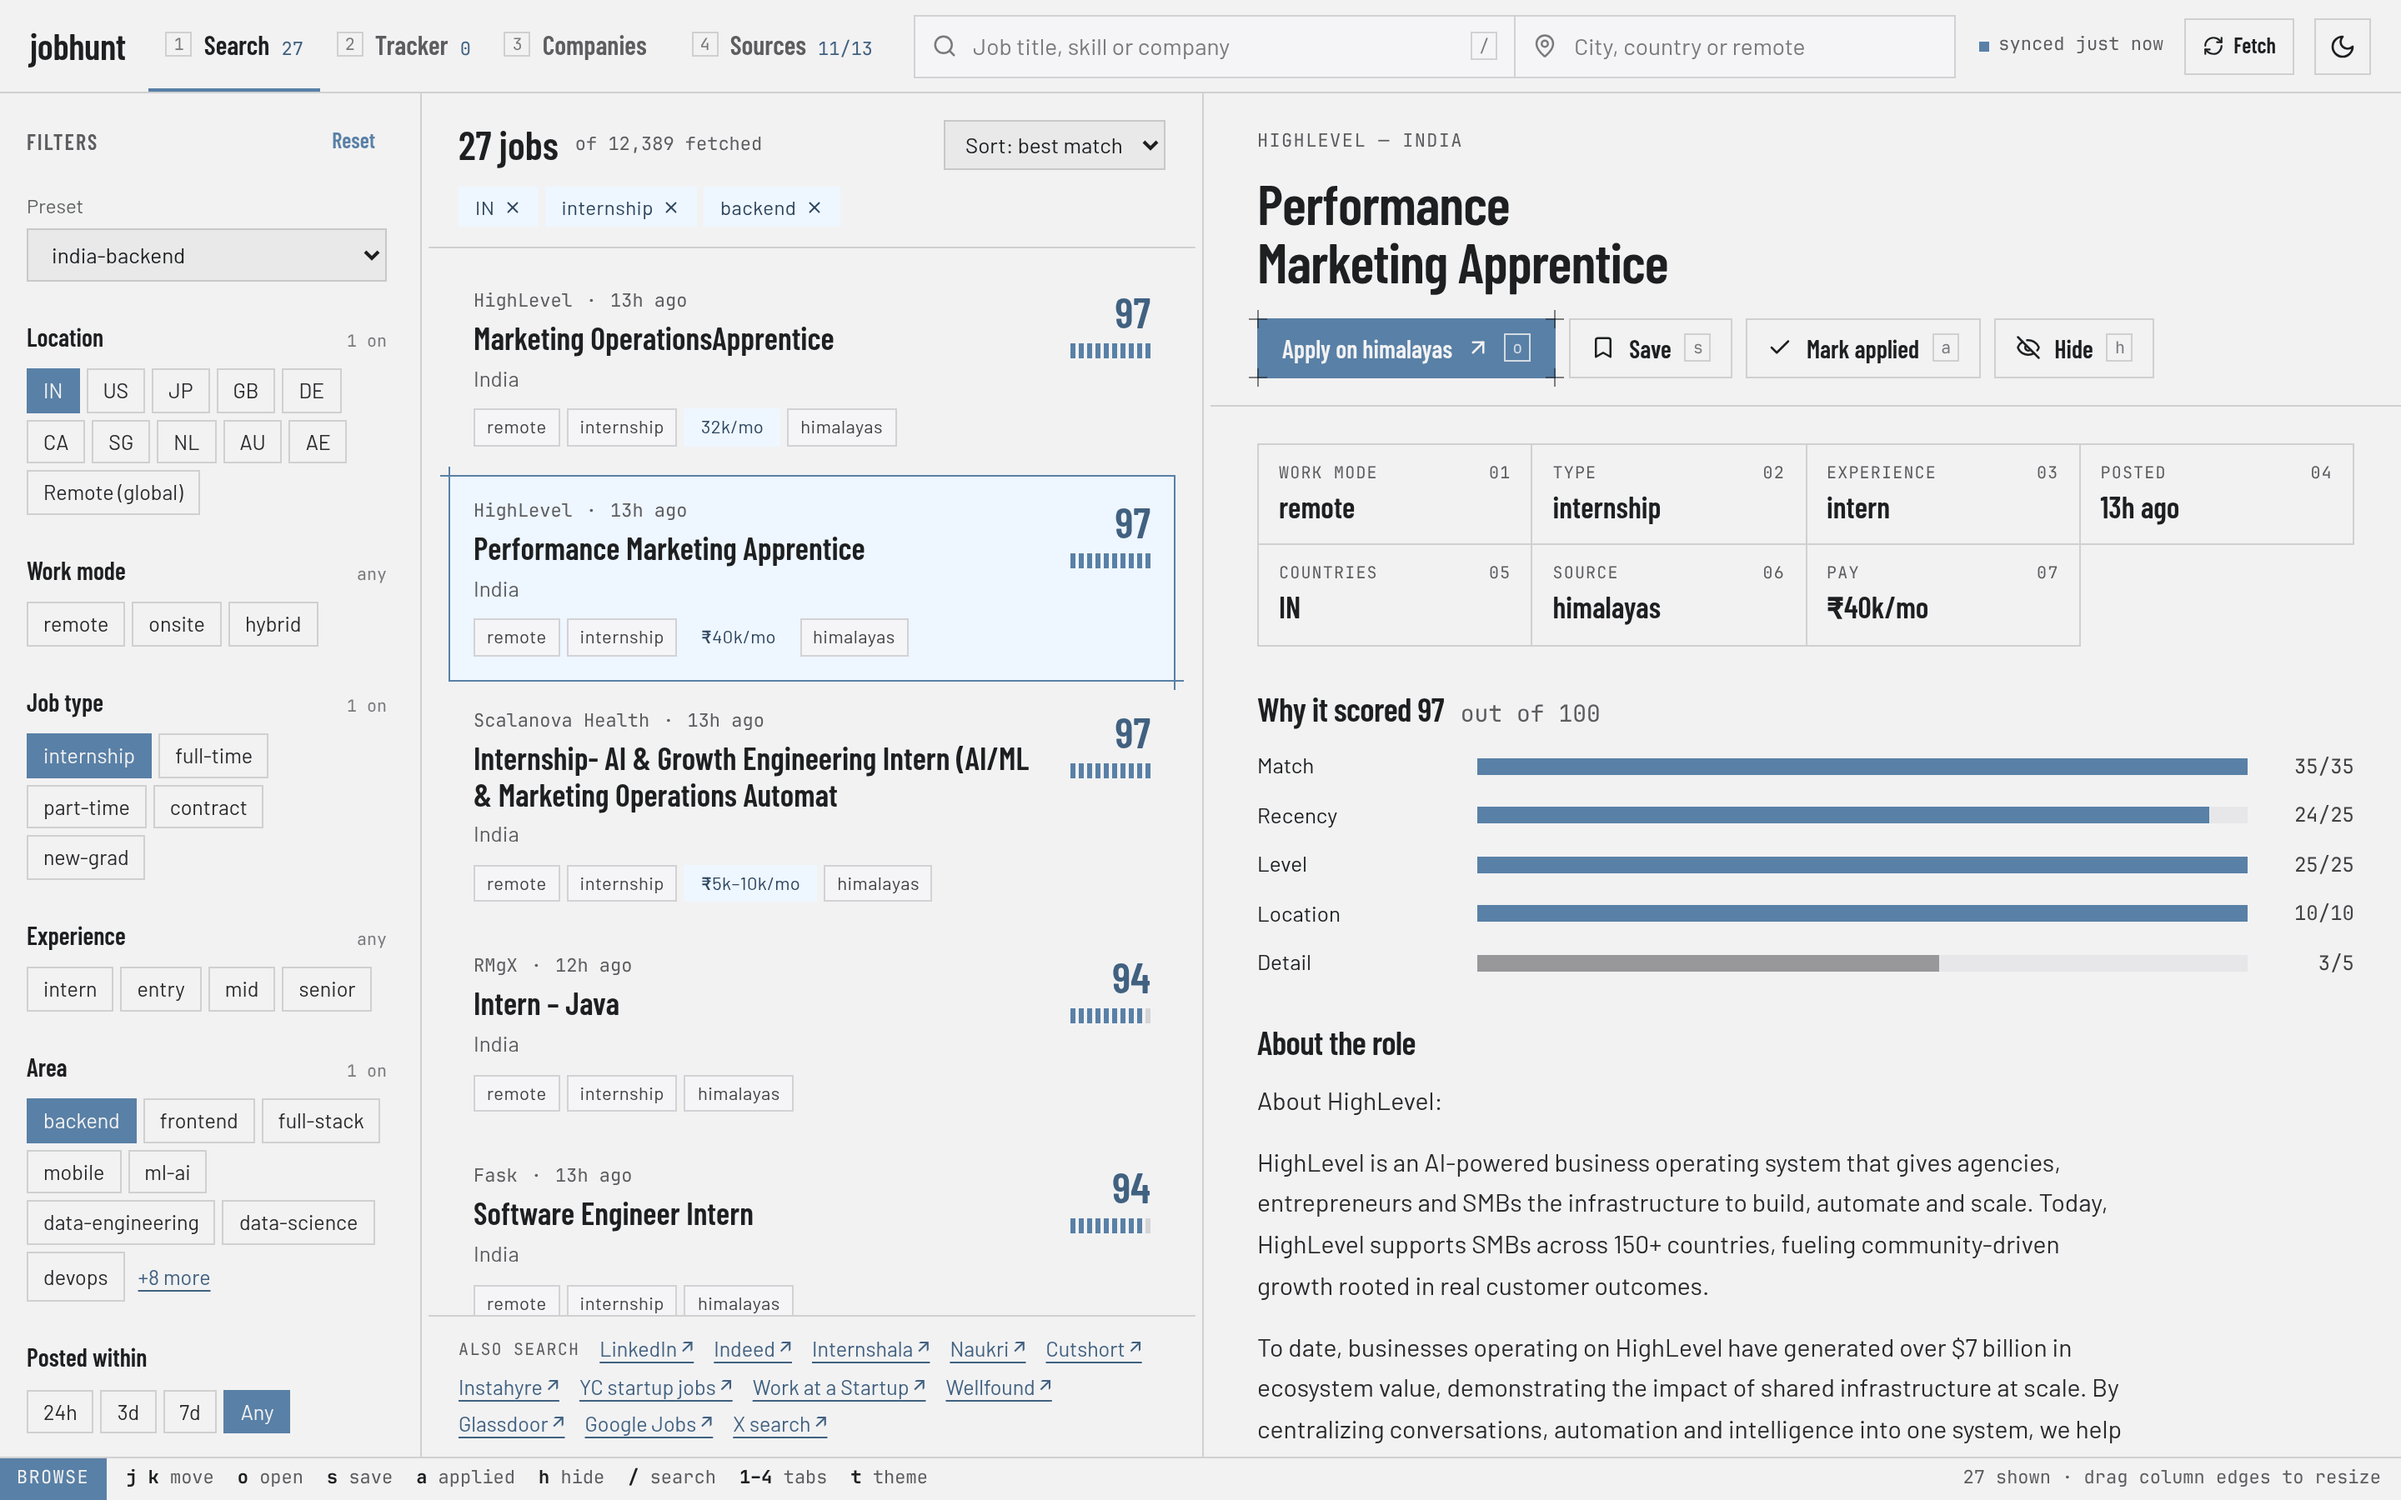
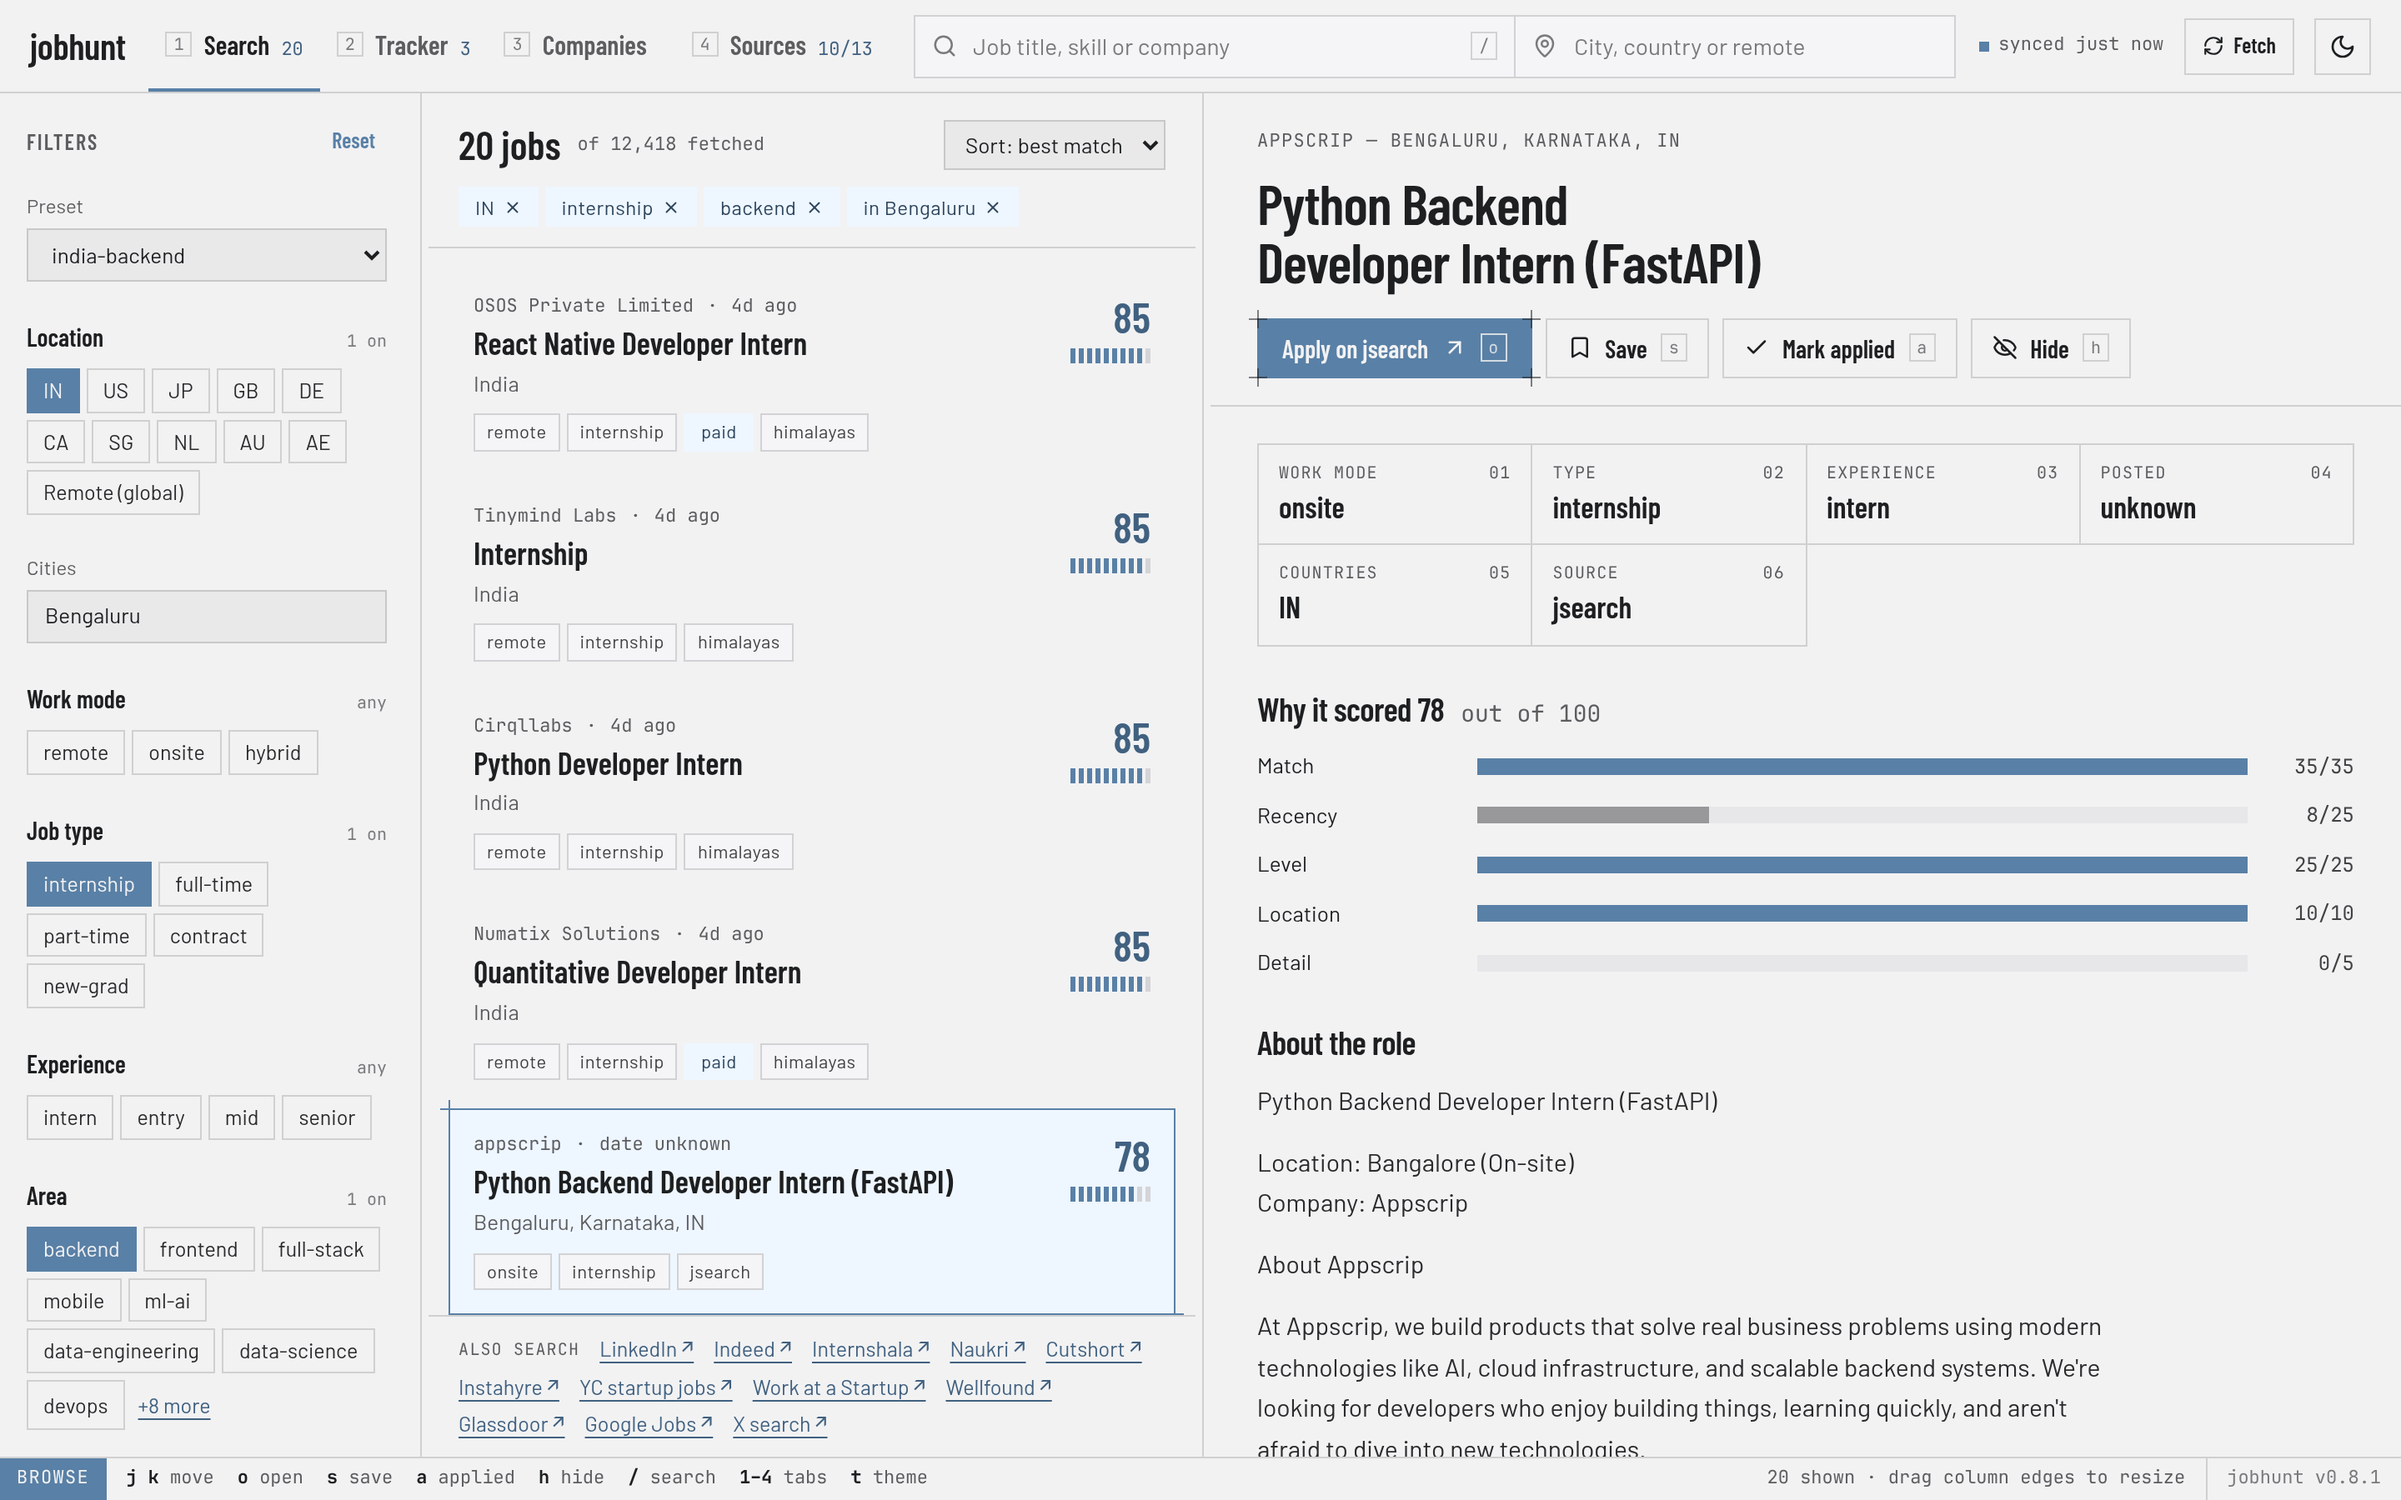
docs: city filter in README; refresh TUI and web screenshots
Show the Cities filter in the web search shot, the CITY section in the
TUI shot and the Add job button in the tracker shot.

diff --git a/README.md b/README.md
@@ -15,6 +15,7 @@ Use it from the terminal, a TUI, or a local web UI. It also keeps a list of star
 - **One search, every source.** Queries about 90 company job boards, remote boards, HN "Who is Hiring" and optional APIs concurrently.
 - **Less noise.** Classifies each job's type, level, work mode, CS area and visa support, then filters out what you didn't ask for.
 - **Pay and stipends.** Shows what a job pays when the posting says (`₹15k/mo`, `$40/hr`, `₹6L–8L/yr`), and flags unpaid internships; `--paid-only` drops them.
+- **City filter.** `--city Bangalore,Kozhikode` keeps jobs in those cities under any spelling or case, plus remote jobs you can do from there.
 - **No duplicates.** Merges the same posting found on different sources.
 - **Ranked results.** Scores every job 0–100 for how well it fits your search.
 - **New-job tracking.** Marks jobs you haven't seen before with ★; `--new-only` shows just those.
@@ -144,7 +145,7 @@ Available on `search`, `tui`, `export`, `watch` and `preset save`.
 
 Countries, types, areas and modes left out take the defaults from your config; `any` (as in `-c any`) lifts the restriction instead.
 
-`--country IN` also includes remote jobs open worldwide or to a region containing India; `--strict-country` drops them. `--city` keeps jobs in those cities under any spelling or case (Bangalore = Bengaluru, Calicut = Kozhikode), plus remote jobs open across a country (location just "India" or "Remote"); `--strict-city` drops those too. Set `cities:` in your profile to make it the default. Jobs whose type, area or country is unclear are dropped unless you pass `--include-unknown`.
+`--country IN` also includes remote jobs open worldwide or to a region containing India; `--strict-country` drops them. `--city` keeps jobs in those cities under any spelling or case (Bangalore = Bengaluru, Calicut = Kozhikode), plus remote jobs open across a country or the city's state (location just "India", "Remote" or "Kerala"); remote jobs that name another town are dropped, and `--strict-city` drops all remote jobs. Set `cities:` in your profile to make it the default. Jobs whose type, area or country is unclear are dropped unless you pass `--include-unknown`.
 
 ### TUI keys
 
@@ -195,6 +196,7 @@ profile:
   stack: [go, rust, python]              # earlier ones score higher
   projects: [raft, kubernetes, rag]      # a job mentioning one gets a ranking bonus
   countries: [IN]
+  cities: [Bengaluru, Kochi]             # any spelling; country-wide remote jobs still show
   posted_within: 14d
   min_score: 50                          # the digest leaves out lower scores
   skip_requires_experience: true         # drop postings that ask for prior work or internships
